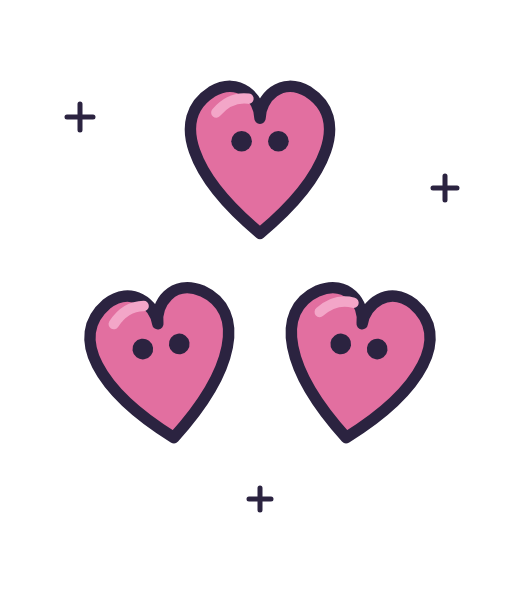
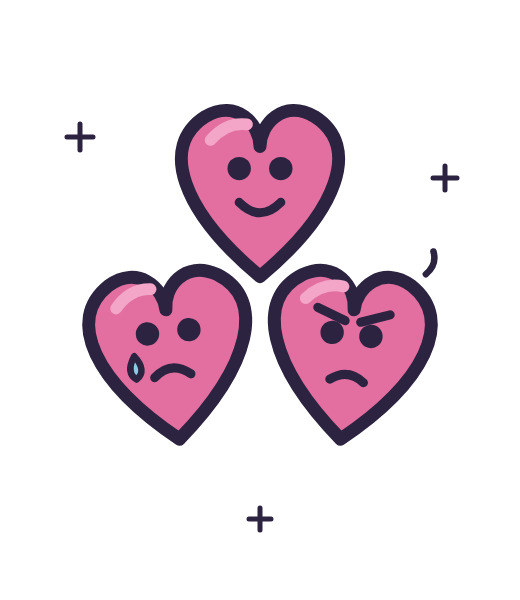
Apply William's feedback across the blob cast
- Rename Brick Blob to Earth Blob (its real name)
- Replace Watermelon Blob with Cloth Blob (it's a dish cloth)
- Heart Blobs now touch and have faces: happy, mad, sad
- Moon Blob rebuilt as a fatter crescent so the eyes sit on it
- Firework Blob redrawn as a teal-and-orange bursting sparkler
- Gem and Gold blobs unchanged (approved)

Claude-Session: https://claude.ai/code/session_01CWYvLNAebJUV9BgoRSz528

diff --git a/files/attack-of-the-blobs/README.md b/files/attack-of-the-blobs/README.md
@@ -8,8 +8,17 @@ William's original pencil/crayon sketches (kept in `sketches/`).
 | File | What it is |
 |------|------------|
 | `cartoon-icons.svg` / `.png` | 2×2 sheet of game menu icons: red book, Shop sign, Earth (with dot eyes), crossed swords |
-| `wind-blob.svg` / `.png` | Wind Blob character — blue triangular tornado with clouds inside, dot eyes |
-| `brick-blob.svg` / `.png` | Brick Blob character — stepped pyramid of brown bricks, dot eyes |
+| `wind-blob.svg` / `.png` | Wind Blob — blue triangular tornado with clouds inside |
+| `earth-blob.svg` / `.png` | Earth Blob — stepped pyramid of brown blocks |
+| `volcano-blob.svg` / `.png` | Volcano Blob — erupting mountain |
+| `firework-blob.svg` / `.png` | Firework Blob — sparkler burst (revision pending: new sketch coming) |
+| `gem-blob.svg` / `.png` | Gem Blob — blue faceted crystal (approved, do not change) |
+| `gold-blob.svg` / `.png` | Gold Blob — tilted gold bar (approved, do not change) |
+| `cloth-blob.svg` / `.png` | Cloth Blob — red dish cloth with dark hem |
+| `wave-blob.svg` / `.png` | Wave Blob — curling wave with foam |
+| `moss-blob.svg` / `.png` | Moss Blob — mossy boulder with a sprout |
+| `moon-blob.svg` / `.png` | Moon Blob — fat purple crescent, face on the wide part |
+| `heart-blobs.svg` / `.png` | Heart Blobs — touching trio with emotions: happy, mad, sad |
 
 SVGs are the editable masters (each icon/character is a named group; colors are
 plain hex fills). PNGs are rendered at working size; character PNGs have
@@ -20,3 +29,4 @@ transparent backgrounds.
 - Thick dark outlines (`#2b2340`), rounded joins
 - Bright flat fills, minimal shading (one shine stripe max)
 - Blobs get two dot eyes only — no mouths, no cheeks
+  - Exception: Heart Blobs have full faces with emotions (happy, mad, sad)
